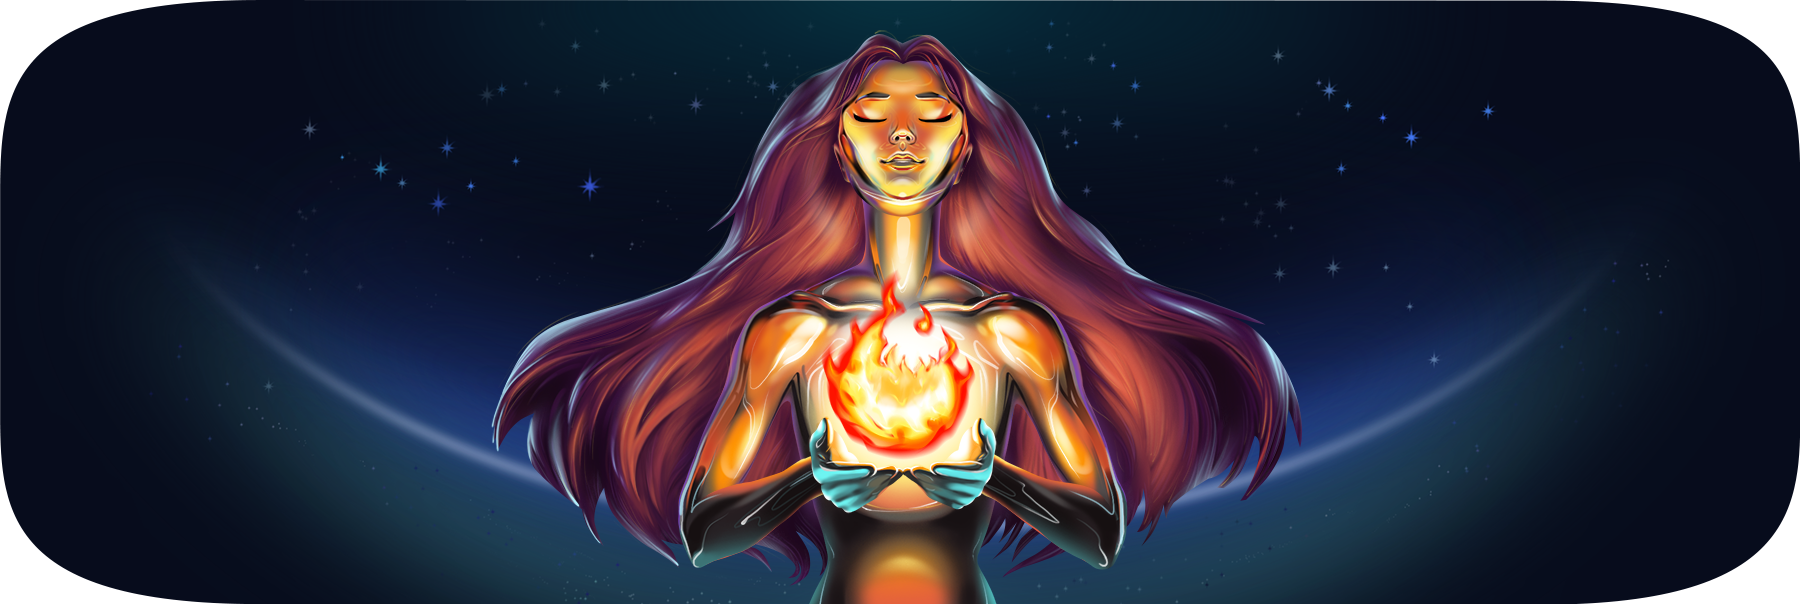
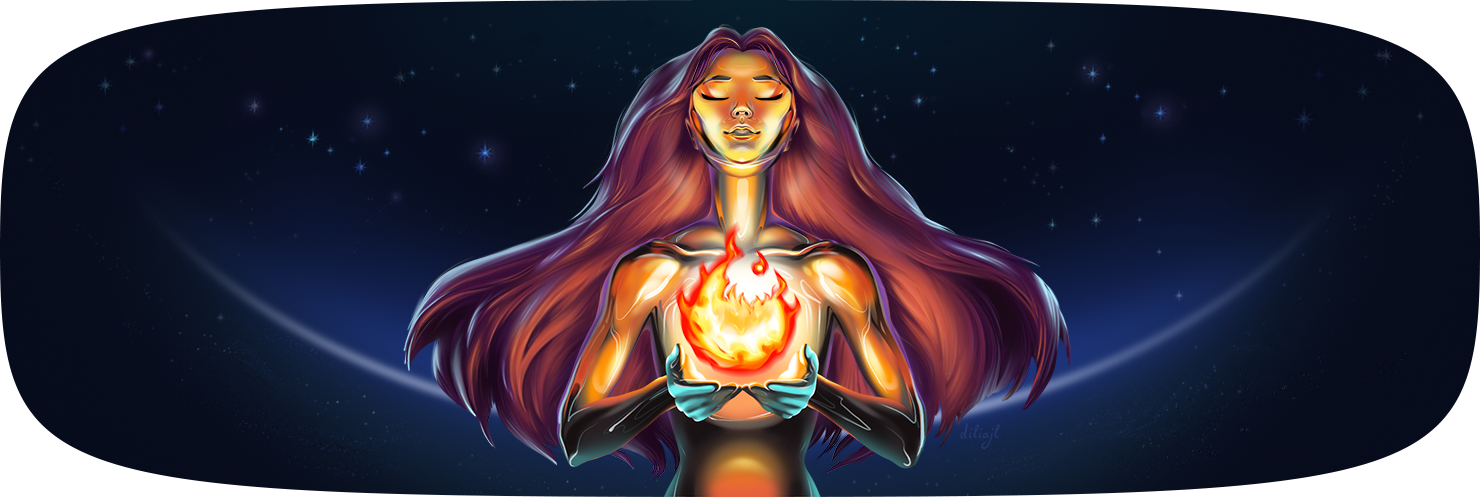
Scalar inputs fix

diff --git a/nobuco/node_converters/tensor_cast.py b/nobuco/node_converters/tensor_cast.py
@@ -56,6 +56,11 @@ def converter_type(self, dtype=None, non_blocking=False, **kwargs):
     return type_func
 
 
+@converter(torch.Tensor.float, channel_ordering_strategy=ChannelOrderingStrategy.MINIMUM_TRANSPOSITIONS)
+def converter_type(self, memory_format=None):
+    return lambda x: type_func(x, dtype=torch.float32)
+
+
 @converter(torch.Tensor.to, channel_ordering_strategy=ChannelOrderingStrategy.MINIMUM_TRANSPOSITIONS)
 def converter_to(self, device=None, dtype=None, non_blocking=False, copy=False, memory_format=torch.preserve_format):
     def func(self, device=None, dtype=None, non_blocking=False, copy=False, memory_format=torch.preserve_format):

diff --git a/nobuco/convert.py b/nobuco/convert.py
@@ -197,7 +197,8 @@ def prepare_inputs_tf(inputs_pt, inputs_channel_order, input_shapes):
         else:
             shape = tens.shape
 
-        return set_channel_order(keras.Input(batch_shape=shape), channel_order)
+        print()
+        return set_channel_order(keras.backend.placeholder(shape=shape), channel_order)
 
     return replace_recursively_func(inputs_pt, collect_func, replace_func)
 

diff --git a/README.md b/README.md
@@ -1,5 +1,6 @@
 <p align="center">
 <img src="docs/nobuco.png">
+<sup><a href="https://www.behance.net/diliajl">diliajl</a></sup>
 </p>
 
 **No** **Bu**llshit **Co**nverter is a tool that helps you translate pytorch models into tensorflow graphs without losing your mind.
@@ -25,6 +26,8 @@ pip install -U nobuco
 - [Channel order wizardry](#channel-order-wizardry)
 - [In-place operations](#in-place-operations)
 - [Going dynamic](#going-dynamic)
+  - [Control flows](#control-flows)
+  - [Dynamic shapes](#dynamic-shapes)
 - [So we put a converter inside your converter](#so-we-put-a-converter-inside-your-converter)
 
 <!-- tocstop -->
@@ -250,6 +253,7 @@ class MyModule(nn.Module):
 
 ## Going dynamic
 
+### Control flows
 Introducing python control flow statements into the compute graph is no easy feat.
 Tensorflow can do so via `tf.autograph`, but at a cost of [system's complexity](https://www.youtube.com/watch?v=NIEgzljyDyI) and with some notable [limitations](https://github.com/tensorflow/tensorflow/blob/master/tensorflow/python/autograph/g3doc/reference/control_flow.md).
 Stuff like that is way above Nobuco's paygrade, so the following module cannot be properly handled without human intervention.
@@ -339,6 +343,9 @@ def converterControlIf(self, x):
 </p>
 
 See [examples](/examples) for other ways to convert control flow ops.
+
+### Dynamic shapes
+:construction: See [examples/dynamic_shape](https://github.com/AlexanderLutsenko/nobuco/blob/master/examples/dynamic_shape.py) :construction:
 
 ## So we put a converter inside your converter
 
